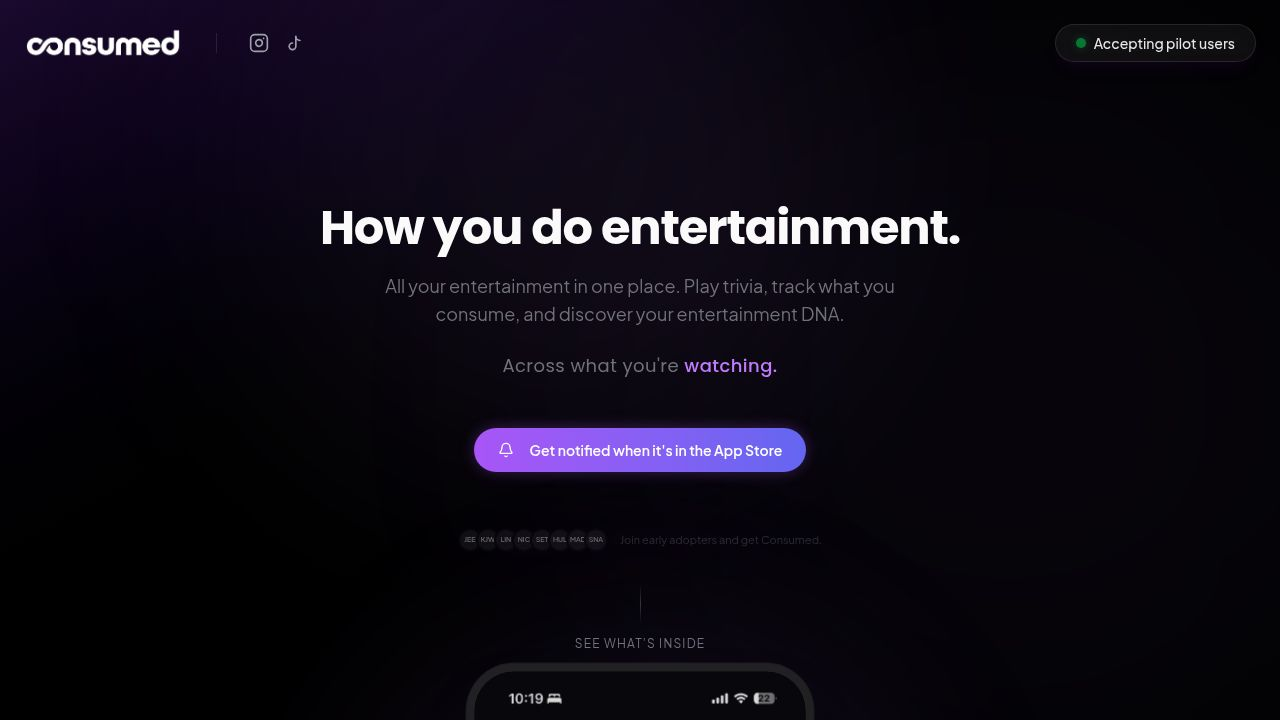
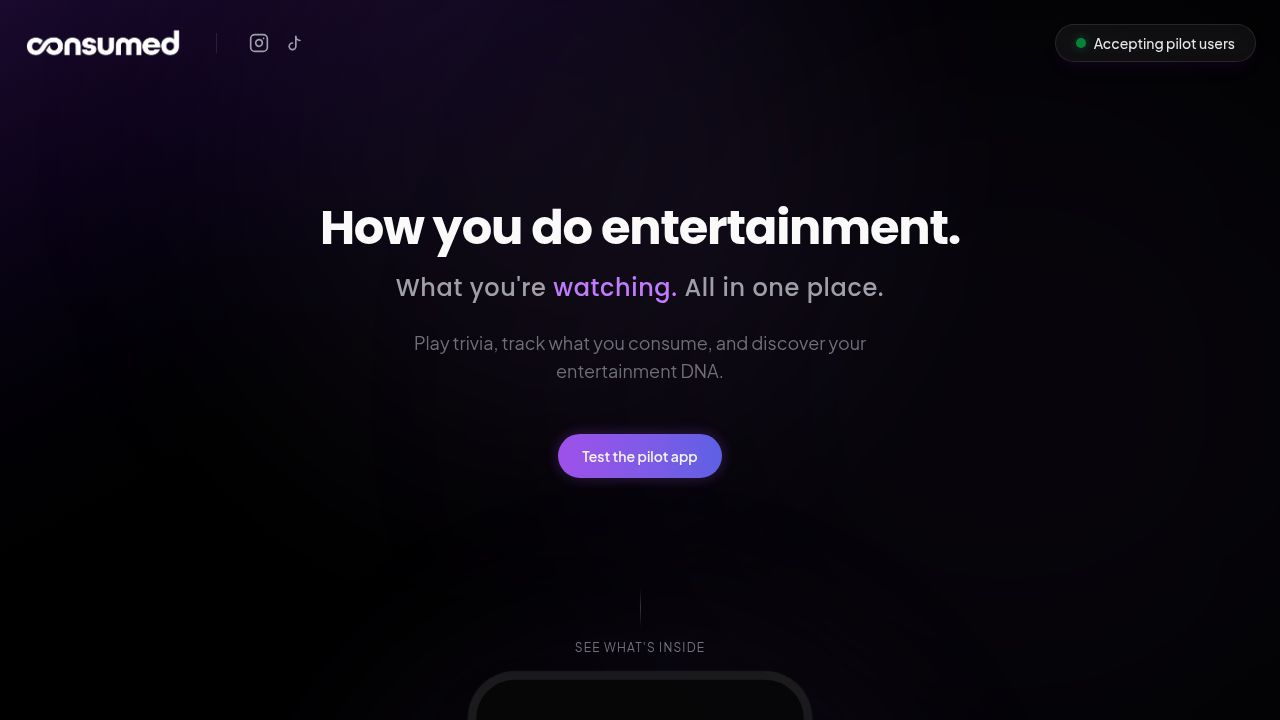
Ensure app screenshots perfectly fill the phone frame
Adjusted carousel component styling for images to use absolute positioning and object-cover with objectPosition 'top center', ensuring they fill the phone frame without gaps.

Replit-Commit-Author: Agent
Replit-Commit-Session-Id: 1054afe4-a81a-4bfc-9d50-b308ff59b433
Replit-Commit-Checkpoint-Type: full_checkpoint
Replit-Commit-Event-Id: 46c1ac96-34f0-4548-bc51-7ab2307d53fa
Replit-Commit-Screenshot-Url: https://storage.googleapis.com/screenshot-production-us-central1/3ba4014b-a542-439a-b8e3-25ffaea1718b/1054afe4-a81a-4bfc-9d50-b308ff59b433/qOe2L4n
Replit-Helium-Checkpoint-Created: true

diff --git a/client/src/pages/home.tsx b/client/src/pages/home.tsx
@@ -240,14 +240,15 @@ export default function Home() {
           {/* Phone Frame - Centered */}
           <Carousel className="w-full flex flex-col items-center" opts={{ loop: true, dragFree: false }}>
             <div className="relative mx-auto border-zinc-800 bg-zinc-950 border-[8px] rounded-[3rem] h-[720px] w-[350px] shadow-2xl overflow-hidden ring-1 ring-white/10 z-20 touch-pan-x">
-              <CarouselContent className="h-full cursor-grab active:cursor-grabbing">
+              <CarouselContent className="h-full cursor-grab active:cursor-grabbing" style={{ height: '100%' }}>
                 {[screen1, screen2, screen3, screen4, screen5, screen6].map((screen, index) => (
-                  <CarouselItem key={index} className="h-full">
-                    <div className="w-full h-full relative">
+                  <CarouselItem key={index} className="h-full" style={{ height: '100%' }}>
+                    <div className="w-full h-full relative bg-[#0a0a0f]" style={{ height: '100%' }}>
                       <img 
                         src={screen} 
                         alt={`App Screen ${index + 1}`} 
-                        className="w-full h-full object-fill bg-zinc-950"
+                        className="absolute inset-0 w-full h-full object-cover"
+                        style={{ objectPosition: 'top center' }}
                       />
                     </div>
                   </CarouselItem>
